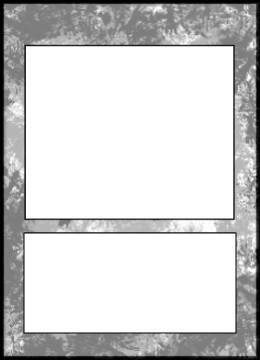
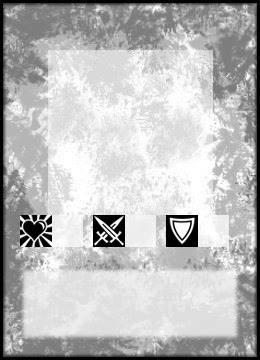
Use new card canvas, fix positions and colors of card texts
This new canvas is proposed by Alexis. The positions of texts has been
changed accordingly, and some colors has been corrected.

Also fix typos in documentation.

diff --git a/src/client/Gui/CreatureGui.cpp b/src/client/Gui/CreatureGui.cpp
@@ -3,9 +3,9 @@
 // WizardPoker header
 #include "client/Gui/CreatureGui.hpp"
 
-const sf::Vector2f CreatureGui::ATTACK_POSITION{12.f, 40.f};
-const sf::Vector2f CreatureGui::HEALTH_POSITION{80.f, 40.f};
-const sf::Vector2f CreatureGui::SHIELD_POSITION{160.f, 40.f};
+const sf::Vector2f CreatureGui::HEALTH_POSITION{56.f, 217.f};
+const sf::Vector2f CreatureGui::ATTACK_POSITION{129.f, 217.f};
+const sf::Vector2f CreatureGui::SHIELD_POSITION{202.f, 217.f};
 constexpr char CreatureGui::FRONT_IMAGE_PATH[];
 
 CreatureGui::CreatureGui(const std::string& name, const std::string& description, int cost, int attack, int health, int shield, ShieldType shieldType):
@@ -21,9 +21,10 @@ CreatureGui::CreatureGui(const std::string& name, const std::string& description
 	_picture.setTexture(&_pictureTexture);
 	_picture.setSize(SIZE);
 
-	setupText(_attackText, "Att: " + std::to_string(attack), ATTACK_POSITION);
-	setupText(_healthText, "Hea: " + std::to_string(health), HEALTH_POSITION);
-	setupText(_shieldText, "Shi: " + std::to_string(shield), SHIELD_POSITION);
+	setupText(_healthText, std::to_string(health), HEALTH_POSITION);
+	_healthText.setColor(sf::Color(200, 0, 0));
+	setupText(_attackText, std::to_string(attack), ATTACK_POSITION);
+	setupText(_shieldText, std::to_string(shield), SHIELD_POSITION);
 	switch(_shieldType)
 	{
 		case SHIELD_BLUE:
@@ -31,11 +32,11 @@ CreatureGui::CreatureGui(const std::string& name, const std::string& description
 			break;
 
 		case SHIELD_ORANGE:
-			_shieldText.setColor(sf::Color::Blue);
+			_shieldText.setColor(sf::Color(255, 160, 0));
 			break;
 
 		case SHIELD_LEGENDARY:
-			_healthText.setColor(sf::Color(200, 200, 200));
+			_healthText.setColor(sf::Color(255, 200, 200));
 			break;
 
 		default:
@@ -44,26 +45,26 @@ CreatureGui::CreatureGui(const std::string& name, const std::string& description
 	}
 }
 
-void CreatureGui::setAttack(int value)
-{
-	_attackText.setString("Att: " + std::to_string(value));
-}
-
 void CreatureGui::setHealth(int value)
 {
-	_healthText.setString("Hea: " + std::to_string(value));
+	_healthText.setString(std::to_string(value));
+}
+
+void CreatureGui::setAttack(int value)
+{
+	_attackText.setString(std::to_string(value));
 }
 
 void CreatureGui::setShield(int value)
 {
-	_shieldText.setString("Shi: " + std::to_string(value));
+	_shieldText.setString(std::to_string(value));
 }
 
 void CreatureGui::draw(sf::RenderTarget &target, sf::RenderStates states) const
 {
 	CardGui::draw(target, states);
 	states.transform.translate(getPosition());
-	target.draw(_attackText, states);
 	target.draw(_healthText, states);
+	target.draw(_attackText, states);
 	target.draw(_shieldText, states);
 }

diff --git a/include/client/Gui/CreatureGui.hpp b/include/client/Gui/CreatureGui.hpp
@@ -11,11 +11,11 @@ public:
 	/// Constructor.
 	CreatureGui(const std::string& name, const std::string& description, int cost, int attack, int health, int shield, ShieldType shieldType);
 
-	/// Sets the attack.
-	void setAttack(int value);
-
 	/// Sets the health.
 	void setHealth(int value);
+
+	/// Sets the attack.
+	void setAttack(int value);
 
 	/// Sets the shield.
 	void setShield(int value);
@@ -24,23 +24,23 @@ public:
 	virtual void draw(sf::RenderTarget &target, sf::RenderStates states) const override;
 
 private:
-	/// Type of shield, determines the color of the shield text.
-	ShieldType _shieldType;
+	/// Graphical text for the health.
+	sf::Text _healthText;
 
 	/// Graphical text for the attack.
 	sf::Text _attackText;
 
-	/// Graphical text for the health.
-	sf::Text _healthText;
-
 	/// Graphical text for the shield.
 	sf::Text _shieldText;
 
-	/// Position of the attack text.
-	static const sf::Vector2f ATTACK_POSITION;
+	/// Type of shield, determines the color of the shield text.
+	ShieldType _shieldType;
 
 	/// Position of the health text.
 	static const sf::Vector2f HEALTH_POSITION;
+
+	/// Position of the attack text.
+	static const sf::Vector2f ATTACK_POSITION;
 
 	/// Position of the shield text.
 	static const sf::Vector2f SHIELD_POSITION;

diff --git a/src/client/Gui/CardGui.cpp b/src/client/Gui/CardGui.cpp
@@ -3,10 +3,10 @@
 // WizardPoker headers
 #include "client/Gui/CardGui.hpp"
 
-const sf::Vector2f CardGui::SIZE{240.f, 360.f};
-const sf::Vector2f CardGui::NAME_POSITION{12.f, 12.f};
-const sf::Vector2f CardGui::COST_POSITION{200.f, 12.f};
-const sf::Vector2f CardGui::DESCRIPTION_POSITION{36.f, 240.f};
+const sf::Vector2f CardGui::SIZE{260.f, 360.f};
+const sf::Vector2f CardGui::NAME_POSITION{20.f, 17.f};
+const sf::Vector2f CardGui::COST_POSITION{220.f, 17.f};
+const sf::Vector2f CardGui::DESCRIPTION_POSITION{26.f, 273.f};
 constexpr char CardGui::BACK_IMAGE_PATH[];
 constexpr char CardGui::FONT_PATH[];
 
@@ -32,11 +32,14 @@ CardGui::CardGui(const std::string& name, const std::string& description, int co
 	// complete cost, name and effects
 	setupText(_nameText, name, NAME_POSITION);
 	_nameText.setStyle(sf::Text::Bold);
+
 	setupText(_costText, std::to_string(cost), COST_POSITION);
 	_costText.setStyle(sf::Text::Bold | sf::Text::Underlined);
-	_costText.setColor(sf::Color(200, 0, 0));
+	_costText.setColor(sf::Color(0, 0, 100));
+
 	setupText(_descriptionText, description, DESCRIPTION_POSITION);
 	_descriptionText.setStyle(sf::Text::Italic);
+	_descriptionText.setCharacterSize(DESCRIPTION_CHAR_SIZE);
 }
 
 void CardGui::setCost(int cost)

diff --git a/include/client/Gui/CardGui.hpp b/include/client/Gui/CardGui.hpp
@@ -15,10 +15,10 @@ public:
 	/// Destructor.
 	virtual ~CardGui() = default;
 
-	/// Setw the cost of the card.
+	/// Sets the cost of the card.
 	void setCost(int cost);
 
-	/// Setw which side of the card is drawn when the card is displayed.
+	/// Sets which side of the card is drawn when the card is displayed.
 	/// \param true to show the front (with the image, title, ...), false to
 	/// show the back.
 	void setShownSide(bool showFront);
@@ -74,6 +74,9 @@ private:
 
 	/// Character size.
 	static constexpr std::size_t CHAR_SIZE = 20;
+
+	/// Description character size.
+	static constexpr std::size_t DESCRIPTION_CHAR_SIZE = 12;
 
 	/// Path to the font.
 	static constexpr char FONT_PATH[] = "../resources/client/FreeSans.otf";

diff --git a/src/client/Gui/states/GuiCardsCollectionState.cpp b/src/client/Gui/states/GuiCardsCollectionState.cpp
@@ -1,5 +1,6 @@
 // WizardPoker headers
 #include "client/Gui/states/GuiCardsCollectionState.hpp"
+#include "client/Gui/CreatureGui.hpp"
 
 GuiCardsCollectionState::GuiCardsCollectionState(Context& context):
 	AbstractState(context),
@@ -25,4 +26,5 @@ GuiCardsCollectionState::GuiCardsCollectionState(Context& context):
 	_buttons[0].button->setSize(windowWidth * 3.f/5.f, windowHeight * 1/10.f);
 
 	registerRootWidgets({_titleLabel, _buttons[0].button});
+
 }
